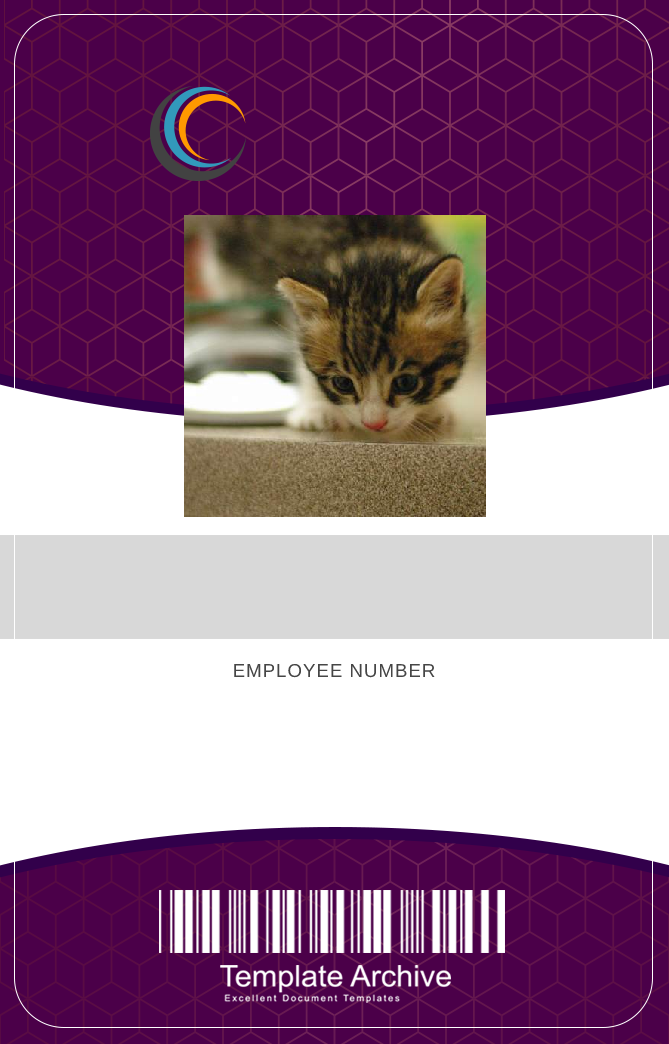
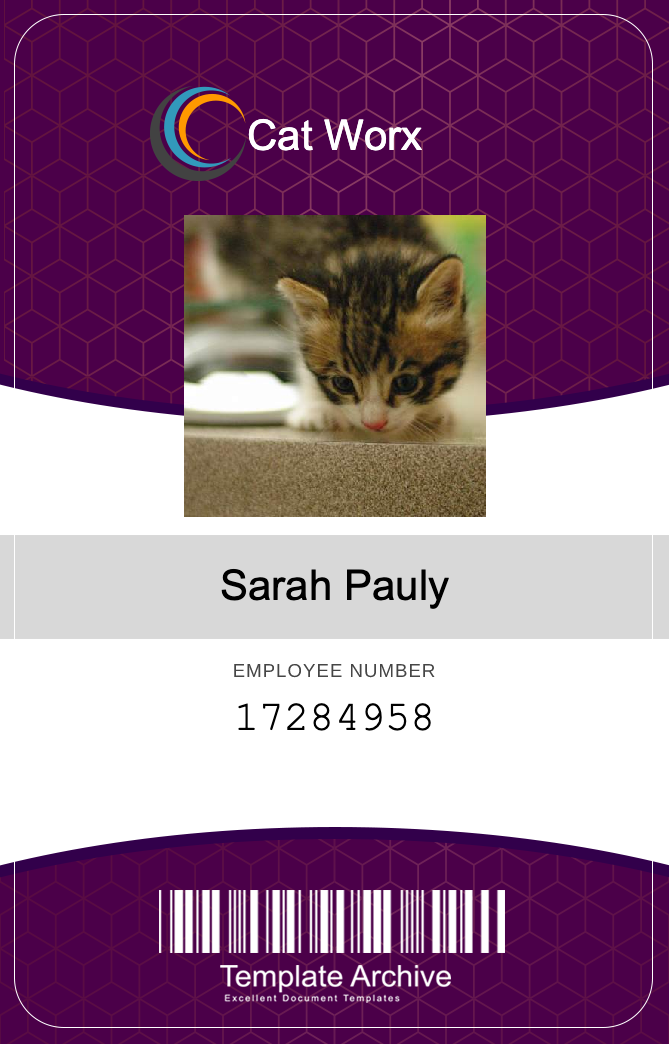
print employee information on badge and create multiple employee badges at once with ids

Changed region(s): [[0.3288, 0.5211, 0.6876, 0.5824], [0.3587, 0.092, 0.6278, 0.1533], [0.3587, 0.6743, 0.6577, 0.705]]

diff --git a/Util.cs b/Util.cs
@@ -56,6 +56,12 @@ namespace CatWorx.BadgeMaker
             int PHOTO_RIGHT_X = 486;
             int PHOTO_BOTTOM_Y = 517;
 
+            int COMPANY_NAME_Y = 150;
+
+            int EMPLOYEE_NAME_Y = 600;
+
+            int EMPLOYEE_ID_Y = 730;
+
             // instace of HTTPClient is disposed after code in the block as run
             using(HttpClient client = new HttpClient())
             {
@@ -70,9 +76,34 @@ namespace CatWorx.BadgeMaker
                     canvas.DrawImage(background, new SKRect(0, 0, BADGE_WIDTH, BADGE_HEIGHT));
                     canvas.DrawImage(photo, new SKRect(PHOTO_LEFT_X, PHOTO_TOP_Y, PHOTO_RIGHT_X, PHOTO_BOTTOM_Y));
 
+                    // SKPaint set up- create an instance of an SKPaint object and alter properties for company text
+                    SKPaint paint = new SKPaint();
+                    paint.TextSize = 42.0f;
+                    paint.IsAntialias = true;
+                    paint.Color = SKColors.White;
+                    paint.IsStroke = false;
+                    paint.TextAlign =  SKTextAlign.Center;
+                    paint.Typeface = SKTypeface.FromFamilyName("Arial");
+
+                    // Company name
+                    canvas.DrawText(employees[i].GetCompanyName(), BADGE_WIDTH / 2f, COMPANY_NAME_Y, paint);
+
+                    // SKPaint properties for employee name
+                    paint.Color = SKColors.Black;
+
+                    // Employee name
+                    canvas.DrawText(employees[i].GetFullName(), BADGE_WIDTH / 2f, EMPLOYEE_NAME_Y, paint);
+
+                    // SKPaint propertiees for employee id
+                    paint.Typeface = SKTypeface.FromFamilyName("Courier New");
+
+                    //Employee ID
+                    canvas.DrawText(employees[i].GetId().ToString(), BADGE_WIDTH / 2f, EMPLOYEE_ID_Y, paint);
+
                     SKImage finalImage = SKImage.FromBitmap(badge);
                     SKData data = finalImage.Encode();
-                    data.SaveTo(File.OpenWrite("data/employeeBadge.png"));
+                    string template = "data/{0}_badge.png";
+                    data.SaveTo(File.OpenWrite(string.Format(template, employees[i].GetId())));
                 }
             }
         }

diff --git a/Employee.cs b/Employee.cs
@@ -25,5 +25,8 @@ namespace CatWorx.BadgeMaker
         public string GetPhotoUrl() {
             return PhotoUrl;
         }
+        public string GetCompanyName() {
+            return "Cat Worx";
+        }
     }
 }
